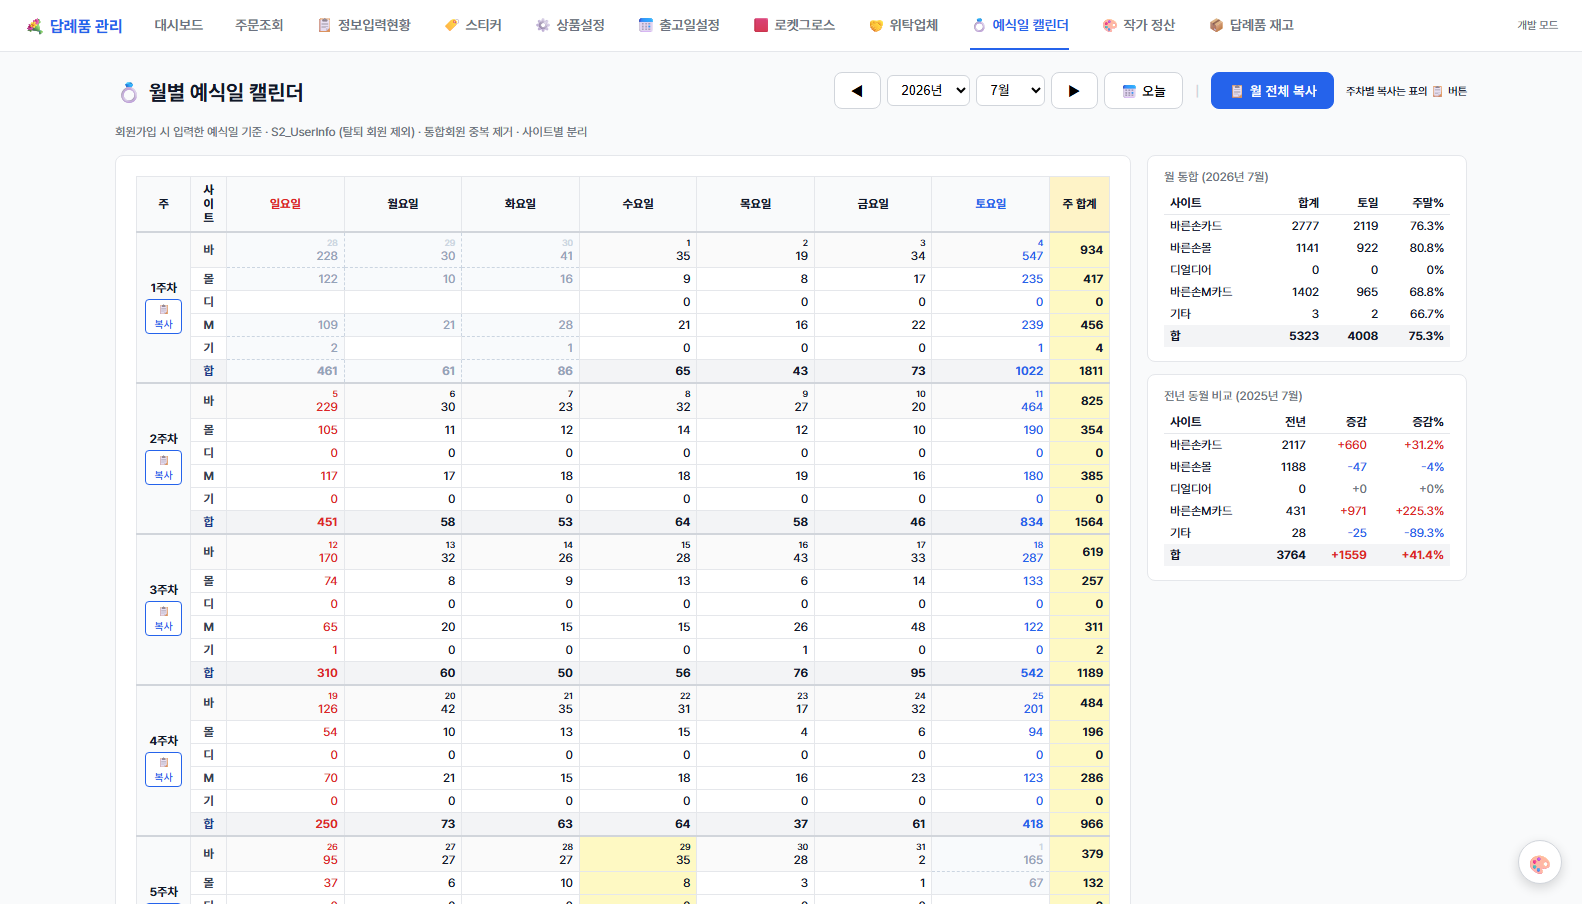
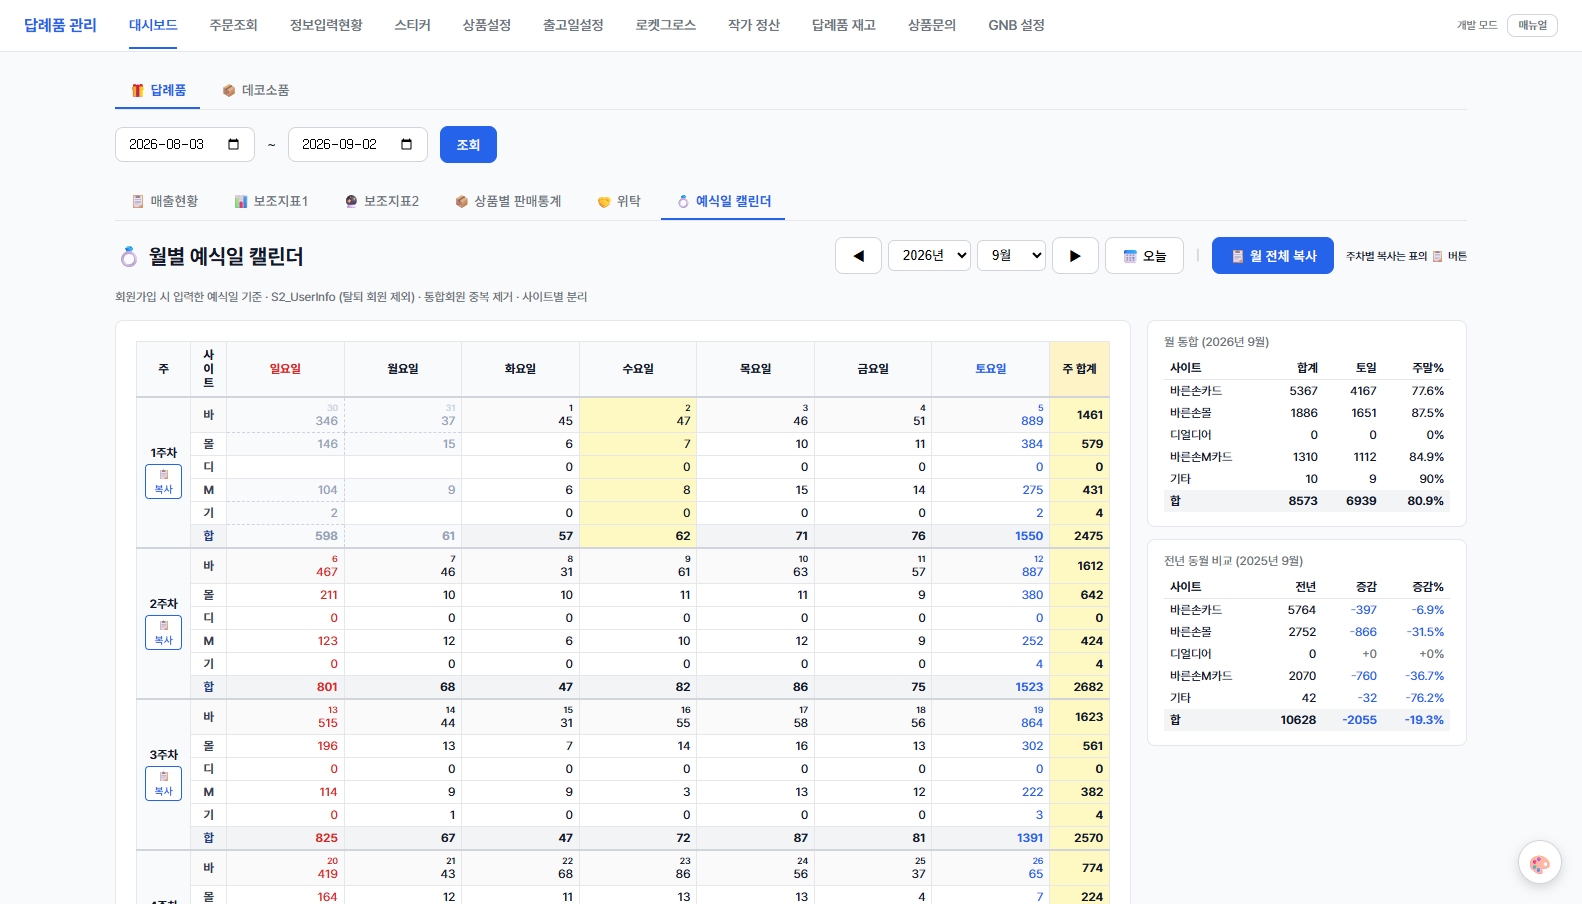
feat: 예식일 캘린더를 GNB 에서 대시보드 하위 탭으로 이동
GNB 항목이 15개까지 늘어 예식일 캘린더처럼 '보는' 화면은 대시보드 안이 맞다 (2026-09-02 요청).

위탁 탭(5)이 쓰던 방식을 그대로 따랐다 — 원래 페이지(#page-wedding-calendar)의 내용을
섹션6 컨테이너로 1회 옮긴다. id 가 보존되므로 기존 렌더·조회 코드는 손대지 않았다.
· 서브탭 6 '💍 예식일 캘린더' 추가, 탭 루프 5→6 (3곳)
· 탭 진입 시 initWeddingCalendar() 지연 로드 — 무거운 회원 스캔이라 열 때만 돈다
· data-dash-only 를 두지 않는다: 예식일은 회원 기준이라 답례품 전용이 아니다
  (데코소품 카테고리에서도 탭이 남는 것 확인)

옛 #wedding-calendar 북마크·서버에 저장된 GNB 설정으로 들어오면 대시보드 탭6 으로
넘긴다 — 링크가 사라져 showPage 의 querySelector 가 null 이 되는 것도 여기서 막는다.
GNB 설정 화면은 DOM 의 nav 링크를 훑으므로 목록에서도 자동으로 빠진다.

로컬 실데이터로 GNB 제외·탭 렌더(323셀)·카테고리 전환·옛 해시 리디렉션을 확인했고,
매뉴얼의 '5개 하위 탭' 문구와 스크린샷을 새 위치로 갱신했다.

diff --git a/pricing-prototype/daeryepum/index.html b/pricing-prototype/daeryepum/index.html
@@ -310,7 +310,6 @@ nav.nav-loading a[href^="#"] {
   <a href="#bg-vendors" onclick="showPage('bg-vendors')">위탁업체</a>
   <a href="#bg-artists" onclick="showPage('bg-artists')">작가 정산</a>
   <a href="#daeryepum-stock" onclick="showPage('daeryepum-stock')">답례품 재고</a>
-  <a href="#wedding-calendar" onclick="showPage('wedding-calendar')">예식일 캘린더</a>
   <a href="#admin-nav-settings" onclick="showPage('admin-nav-settings')" id="nav-link-admin-nav-settings" style="display:none">GNB 설정</a>
   <div class="user-area" id="user-area"></div>
 </nav>
@@ -343,6 +342,7 @@ nav.nav-loading a[href^="#"] {
     <button class="btn" id="dash-subtab-3" onclick="setDashSubTab(3)" style="border:0;border-bottom:2px solid transparent;border-radius:0;color:var(--gray-500);font-weight:500;padding:8px 14px;background:transparent">🔮 보조지표2</button>
     <button class="btn" id="dash-subtab-4" onclick="setDashSubTab(4)" style="border:0;border-bottom:2px solid transparent;border-radius:0;color:var(--gray-500);font-weight:500;padding:8px 14px;background:transparent">📦 상품별 판매통계</button>
     <button class="btn" id="dash-subtab-5" onclick="setDashSubTab(5)" style="border:0;border-bottom:2px solid transparent;border-radius:0;color:var(--gray-500);font-weight:500;padding:8px 14px;background:transparent">🤝 위탁</button>
+    <button class="btn" id="dash-subtab-6" onclick="setDashSubTab(6)" style="border:0;border-bottom:2px solid transparent;border-radius:0;color:var(--gray-500);font-weight:500;padding:8px 14px;background:transparent">💍 예식일 캘린더</button>
   </div>
 
   <!-- 기간 매출 현황 블록 (.section 래퍼 없음 → lazy-load 태깅용 wrap) -->
@@ -1131,6 +1131,10 @@ nav.nav-loading a[href^="#"] {
 
   <!-- 위탁 대시보드 (하위 탭 5) — 콘텐츠는 JS(_tagDashSections)에서 #page-bg-vendor-dashboard 에서 reparent -->
   <div data-dash-section="5" id="dash-sec-vendor" data-dash-only="daeryepum"></div>
+  <!-- 예식일 캘린더 — GNB 에서 대시보드 하위 탭으로 이동 (2026-09-02 요청).
+       위탁 탭과 같은 방식: 원래 페이지(#page-wedding-calendar) 내용을 여기로 1회 옮긴다.
+       회원 예식일 기준이라 답례품 카테고리 한정이 아니다 (data-dash-only 없음). -->
+  <div data-dash-section="6" id="dash-sec-wedding"></div>
 
 </div>
 
@@ -4967,6 +4971,14 @@ function pctChange(cur,prev) { if(!prev) return cur > 0 ? 100 : 0; return Math.r
 
 // --- Pages ---
 function showPage(name) {
+  // 예식일 캘린더는 대시보드 하위 탭으로 옮겼다 (2026-09-02) — 옛 #wedding-calendar 북마크·
+  //   저장된 GNB 설정으로 들어오면 대시보드 해당 탭으로 넘긴다. 링크가 없어 querySelector 가
+  //   null 이 되는 것도 여기서 막는다.
+  if (name === 'wedding-calendar') {
+    showPage('dashboard');
+    setDashSubTab(6);
+    return;
+  }
   document.querySelectorAll('.page').forEach(p => p.classList.remove('active'));
   document.getElementById('page-' + name).classList.add('active');
   document.querySelectorAll('nav a').forEach(a => a.classList.remove('active'));
@@ -4990,7 +5002,6 @@ function showPage(name) {
   if (name === 'bg-artists') initArtistsPreview();
   if (name === 'daeryepum-stock') initDaeryepumStock();
   if (name === 'bhands-gift') initBhgOrders();
-  if (name === 'wedding-calendar') initWeddingCalendar();
 }
 
 // --- Category Tabs ---
@@ -8830,6 +8841,13 @@ function _tagDashSections() {
     if (settlePage) while (settlePage.firstChild) vendorPane.appendChild(settlePage.firstChild);
     vendorPane.dataset.reparented = '1';
   }
+  // 예식일 캘린더 — 페이지 내용을 섹션6 컨테이너로 1회 이동 (id 보존 → 기존 렌더 코드 그대로)
+  const weddingPane = document.getElementById('dash-sec-wedding');
+  if (weddingPane && !weddingPane.dataset.reparented) {
+    const weddingPage = document.getElementById('page-wedding-calendar');
+    if (weddingPage) while (weddingPage.firstChild) weddingPane.appendChild(weddingPage.firstChild);
+    weddingPane.dataset.reparented = '1';
+  }
   page.querySelectorAll('[data-dash-section-wrap]').forEach(el => {
     el.dataset.dashSection = el.getAttribute('data-dash-section-wrap');
   });
@@ -8863,7 +8881,7 @@ function _applyDashVisibility() {
 //   활성 탭이 숨겨지면 매출현황(1)로 전환. (_tagDashSections 이후 호출 필요)
 function _applyDashTabVisibility() {
   let hiddenActive = false;
-  for (let n = 1; n <= 5; n++) {
+  for (let n = 1; n <= 6; n++) {
     const btn = document.getElementById('dash-subtab-' + n);
     if (!btn) continue;
     let hasVisible = false;
@@ -8876,7 +8894,7 @@ function _applyDashTabVisibility() {
   }
   if (hiddenActive) {
     dashSubTab = 1;
-    for (let i = 1; i <= 5; i++) {
+    for (let i = 1; i <= 6; i++) {
       const b = document.getElementById('dash-subtab-' + i);
       if (!b) continue;
       const active = (i === 1);
@@ -8891,7 +8909,7 @@ function _applyDashTabVisibility() {
 // 하위 탭 전환 — 스타일 갱신 + 표시 갱신 + (아직 안 불린 탭이면) 로드.
 function setDashSubTab(n) {
   dashSubTab = n;
-  for (let i = 1; i <= 5; i++) {
+  for (let i = 1; i <= 6; i++) {
     const btn = document.getElementById('dash-subtab-' + i);
     if (!btn) continue;
     const active = (i === n);
@@ -8956,6 +8974,9 @@ async function _loadDashSection(n) {
         initBgVendorDashboard();
         initBgSettlements();
       }
+    } else if (n === 6) {
+      // 예식일 캘린더 — 자체 연/월 셀렉트로 조회한다 (대시보드 기간과 무관).
+      initWeddingCalendar();
     }
   } catch(e) { console.error(e); showToast('대시보드 로딩 실패: ' + e.message); }
 }

diff --git a/pricing-prototype/daeryepum/manual.html b/pricing-prototype/daeryepum/manual.html
@@ -116,7 +116,7 @@ code{background:var(--gray-100);padding:2px 6px;border-radius:4px;font-size:12px
 <div class="step"><b>⑤ 매출·정산</b> — 대시보드에서 채널 통합 매출을, 위탁/작가는 각 정산 페이지에서 확인합니다</div>
 
 <h2 id="dashboard">3. 대시보드</h2>
-<p>좌측 메뉴 <b>대시보드</b>는 5개 하위 탭으로 구성됩니다: <span class="badge b-blue">📋 매출현황</span> <span class="badge">📊 보조지표1</span> <span class="badge">🔮 보조지표2</span> <span class="badge b-green">📦 상품별 판매통계</span> <span class="badge b-purple">🤝 위탁</span></p>
+<p>좌측 메뉴 <b>대시보드</b>는 6개 하위 탭으로 구성됩니다: <span class="badge b-blue">📋 매출현황</span> <span class="badge">📊 보조지표1</span> <span class="badge">🔮 보조지표2</span> <span class="badge b-green">📦 상품별 판매통계</span> <span class="badge b-purple">🤝 위탁</span> <span class="badge b-amber">💍 예식일 캘린더</span></p>
 <p>상단의 <b>기간</b>(시작일~종료일)과 <b>카테고리 탭</b>(답례품/데코소품)이 모든 하위 탭에 공통 적용됩니다. 데코소품 탭에서는 해당 없는 하위 탭(위탁 등)이 자동으로 숨겨집니다.</p>
 
 <h3 id="dash-sales">3-1. 매출현황</h3>
@@ -569,7 +569,6 @@ code{background:var(--gray-100);padding:2px 6px;border-radius:4px;font-size:12px
   <tr><th>페이지</th><th>용도</th></tr>
   <tr><td>📊 월간 보고서</td><td>월 단위 매출·주문 요약 리포트 (보고용 화면)</td></tr>
   <tr><td>📦 답례품 재고</td><td>ERP 재고 코드 기준 상품별 재고 현황</td></tr>
-  <tr><td>💍 예식일 캘린더</td><td>주차/일자별 예식 건수 캘린더 — 수요 예측 참고</td></tr>
   <tr><td>💡 SNS 인사이트</td><td>인기 상품·리드타임 기반 SNS 콘텐츠 소재 추천</td></tr>
   <tr><td>📝 일지</td><td>일별 운영 기록 + 당일 매출 메트릭 스냅샷</td></tr>
 </table>
@@ -642,7 +641,7 @@ code{background:var(--gray-100);padding:2px 6px;border-radius:4px;font-size:12px
 
 <p>구성품이 아직 재고관리에 없으면 회색 줄로 자리만 남고 <b>＋ 등록</b>으로 그 자리에서 등록할 수 있습니다.</p>
 
-<div class="img-wrap"><img src="manual-assets/wedding-calendar.png" alt="예식일 캘린더"><div class="img-cap">예식일 캘린더</div></div>
+<div class="img-wrap"><img src="manual-assets/wedding-calendar.png" alt="예식일 캘린더"><div class="img-cap">예식일 캘린더 — 대시보드 › 💍 예식일 캘린더 탭 (2026-09-02 GNB 에서 이동)</div></div>
 
 <h3 id="inquiries">12-2. 상품문의</h3>
 <div class="img-wrap"><img src="manual-assets/inquiries.png" alt="상품문의"><div class="img-cap">쿠팡·네이버 고객문의를 한자리에 — 문의와 답변이 일시와 함께 구분됩니다 (개인정보 블러)</div></div>
